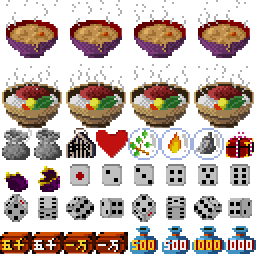
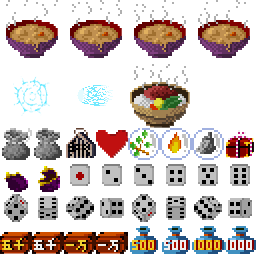
ACE:ショップにアイテムを置いた

Changed region(s): [[0.0, 0.25, 0.5, 0.5], [0.75, 0.25, 1.0, 0.5], [0.9375, 0.25, 0.9688, 0.2812]]

diff --git a/Solution/AceCommon/ViewerObject.cpp b/Solution/AceCommon/ViewerObject.cpp
@@ -231,14 +231,15 @@ ViewerObject::Sprite ViewerObject::getSpriteImpact( GRAPH graph, int x, int y, u
 ViewerObject::Sprite ViewerObject::getSpriteItem( GRAPH graph, int x, int y, unsigned char attribute, int pattern, int size ) const {
 	Sprite sprite;
 	sprite.graph = graph;
-	sprite.tx = pattern % ITEM_CHIP_WIDTH * ITEM_GRAPH_SIZE;
-	sprite.ty = pattern / ITEM_CHIP_WIDTH * ITEM_GRAPH_SIZE;
-	sprite.tw = ITEM_GRAPH_SIZE;
-	sprite.th = ITEM_GRAPH_SIZE;
-	
 	if ( size < 0 ) {
-		size = ITEM_GRAPH_SIZE;
+		size = 32;
 	}
+	int width_num = 256 / size;
+	sprite.tx = pattern % width_num * size;
+	sprite.ty = pattern / width_num * size;
+	sprite.tw = size;
+	sprite.th = size;
+	
 	sprite.sx1 = x - size / 2;
 	sprite.sy1 = y - size;
 	sprite.sx2 = sprite.sx1 + size;

diff --git a/Solution/AceLiveMonitor/ItemEnhancedAttack.cpp b/Solution/AceLiveMonitor/ItemEnhancedAttack.cpp
@@ -1,0 +1,30 @@
+#include "ItemEnhancedAttack.h"
+#include "SynchronousData.h"
+
+const int PRICE = 100;
+
+ItemEnhancedAttack::ItemEnhancedAttack( const Vector& pos ) :
+ShopItem( pos, PRICE ) {
+}
+
+
+ItemEnhancedAttack::~ItemEnhancedAttack( ) {
+}
+
+void ItemEnhancedAttack::act( ) {
+}
+
+void ItemEnhancedAttack::setSynchronousData( unsigned char type, int camera_pos ) const {
+	Vector pos = getPos( );
+	int x = ( int )pos.x;
+	int y = ( int )pos.y;
+
+	AREA area = AREA_EVENT;
+	if ( getArea( ) == AREA_STREET ) {
+		x -= camera_pos;
+		area = AREA_STREET;
+	}
+	unsigned char attribute = 0;
+	SynchronousDataPtr data( SynchronousData::getTask( ) );
+	data->addObject( area, type, 5, attribute, x, y, 64 );
+}

diff --git a/Solution/AceLiveMonitor/ItemEnhancedCharge.cpp b/Solution/AceLiveMonitor/ItemEnhancedCharge.cpp
@@ -1,0 +1,30 @@
+#include "ItemEnhancedCharge.h"
+#include "SynchronousData.h"
+
+const int PRICE = 100;
+
+ItemEnhancedCharge::ItemEnhancedCharge( const Vector& pos ) :
+ShopItem( pos, PRICE ) {
+}
+
+
+ItemEnhancedCharge::~ItemEnhancedCharge( ) {
+}
+
+void ItemEnhancedCharge::act( ) {
+}
+
+void ItemEnhancedCharge::setSynchronousData( unsigned char type, int camera_pos ) const {
+	Vector pos = getPos( );
+	int x = ( int )pos.x;
+	int y = ( int )pos.y;
+
+	AREA area = AREA_EVENT;
+	if ( getArea( ) == AREA_STREET ) {
+		x -= camera_pos;
+		area = AREA_STREET;
+	}
+	unsigned char attribute = 0;
+	SynchronousDataPtr data( SynchronousData::getTask( ) );
+	data->addObject( area, type, 4, attribute, x, y, 64 );
+}

diff --git a/Solution/AceLiveMonitor/ItemDango.cpp b/Solution/AceLiveMonitor/ItemDango.cpp
@@ -1,0 +1,30 @@
+#include "ItemDango.h"
+#include "SynchronousData.h"
+
+const int PRICE = 100;
+
+ItemDango::ItemDango( const Vector& pos ) :
+ShopItem( pos, PRICE ) {
+}
+
+
+ItemDango::~ItemDango( ) {
+}
+
+void ItemDango::act( ) {
+}
+
+void ItemDango::setSynchronousData( unsigned char type, int camera_pos ) const {
+	Vector pos = getPos( );
+	int x = ( int )pos.x;
+	int y = ( int )pos.y;
+
+	AREA area = AREA_EVENT;
+	if ( getArea( ) == AREA_STREET ) {
+		x -= camera_pos;
+		area = AREA_STREET;
+	}
+	unsigned char attribute = 0;
+	SynchronousDataPtr data( SynchronousData::getTask( ) );
+	data->addObject( area, type, 6, attribute, x, y, 64 );
+}

diff --git a/Solution/AceLiveMonitor/Military.cpp b/Solution/AceLiveMonitor/Military.cpp
@@ -237,8 +237,6 @@ EnemyPtr Military::getOverlappedEnemy( CharacterConstPtr character ) const {
 void Military::createBoss( ) {
 	WorldPtr world = World::getTask( );
 	EVENT event = world->getEvent( );
-
-	Storage::getTask( )->eraseEventItem( );
 	_event_enemies.clear( );
 	switch ( event ) {
 	case EVENT_REDDAEMON:

diff --git a/Solution/AceLiveMonitor/ItemEnhancedAttack.h b/Solution/AceLiveMonitor/ItemEnhancedAttack.h
@@ -1,0 +1,12 @@
+#pragma once
+#include "ShopItem.h"
+class ItemEnhancedAttack : public ShopItem {
+public:
+	ItemEnhancedAttack( const Vector& pos );
+	virtual ~ItemEnhancedAttack( );
+public:
+	void setSynchronousData( unsigned char type, int camera_pos ) const;
+protected:
+	void act( );
+};
+

diff --git a/Solution/AceLiveMonitor/ItemEnhancedCharge.h b/Solution/AceLiveMonitor/ItemEnhancedCharge.h
@@ -1,0 +1,12 @@
+#pragma once
+#include "ShopItem.h"
+class ItemEnhancedCharge : public ShopItem {
+public:
+	ItemEnhancedCharge( const Vector& pos );
+	virtual ~ItemEnhancedCharge( );
+public:
+	void setSynchronousData( unsigned char type, int camera_pos ) const;
+protected:
+	void act( );
+};
+

diff --git a/Solution/AceCommon/ace_define.h b/Solution/AceCommon/ace_define.h
@@ -12,7 +12,6 @@ const int SMALL_CHAR_GRAPH_SIZE = 32;
 const int NORMAL_CHAR_GRAPH_SIZE = 64;
 const int BIG_CHAR_GRAPH_SIZE = 128;
 const int IMPACT_GRAPH_SIZE = 128;
-const int ITEM_GRAPH_SIZE = 32;
 
 const int PLAYER_CHAR_GRAPH_FOOT = 7;
 const int PLAYER_CHAR_CHIP_WIDTH = 16;

diff --git a/Solution/AceLiveMonitor/ItemDango.h b/Solution/AceLiveMonitor/ItemDango.h
@@ -1,0 +1,13 @@
+#pragma once
+#include "ShopItem.h"
+
+class ItemDango : public ShopItem {
+public:
+	ItemDango( const Vector& pos );
+	virtual ~ItemDango( );
+public:
+	void setSynchronousData( unsigned char type, int camera_pos ) const;
+protected:
+	void act( );
+};
+
